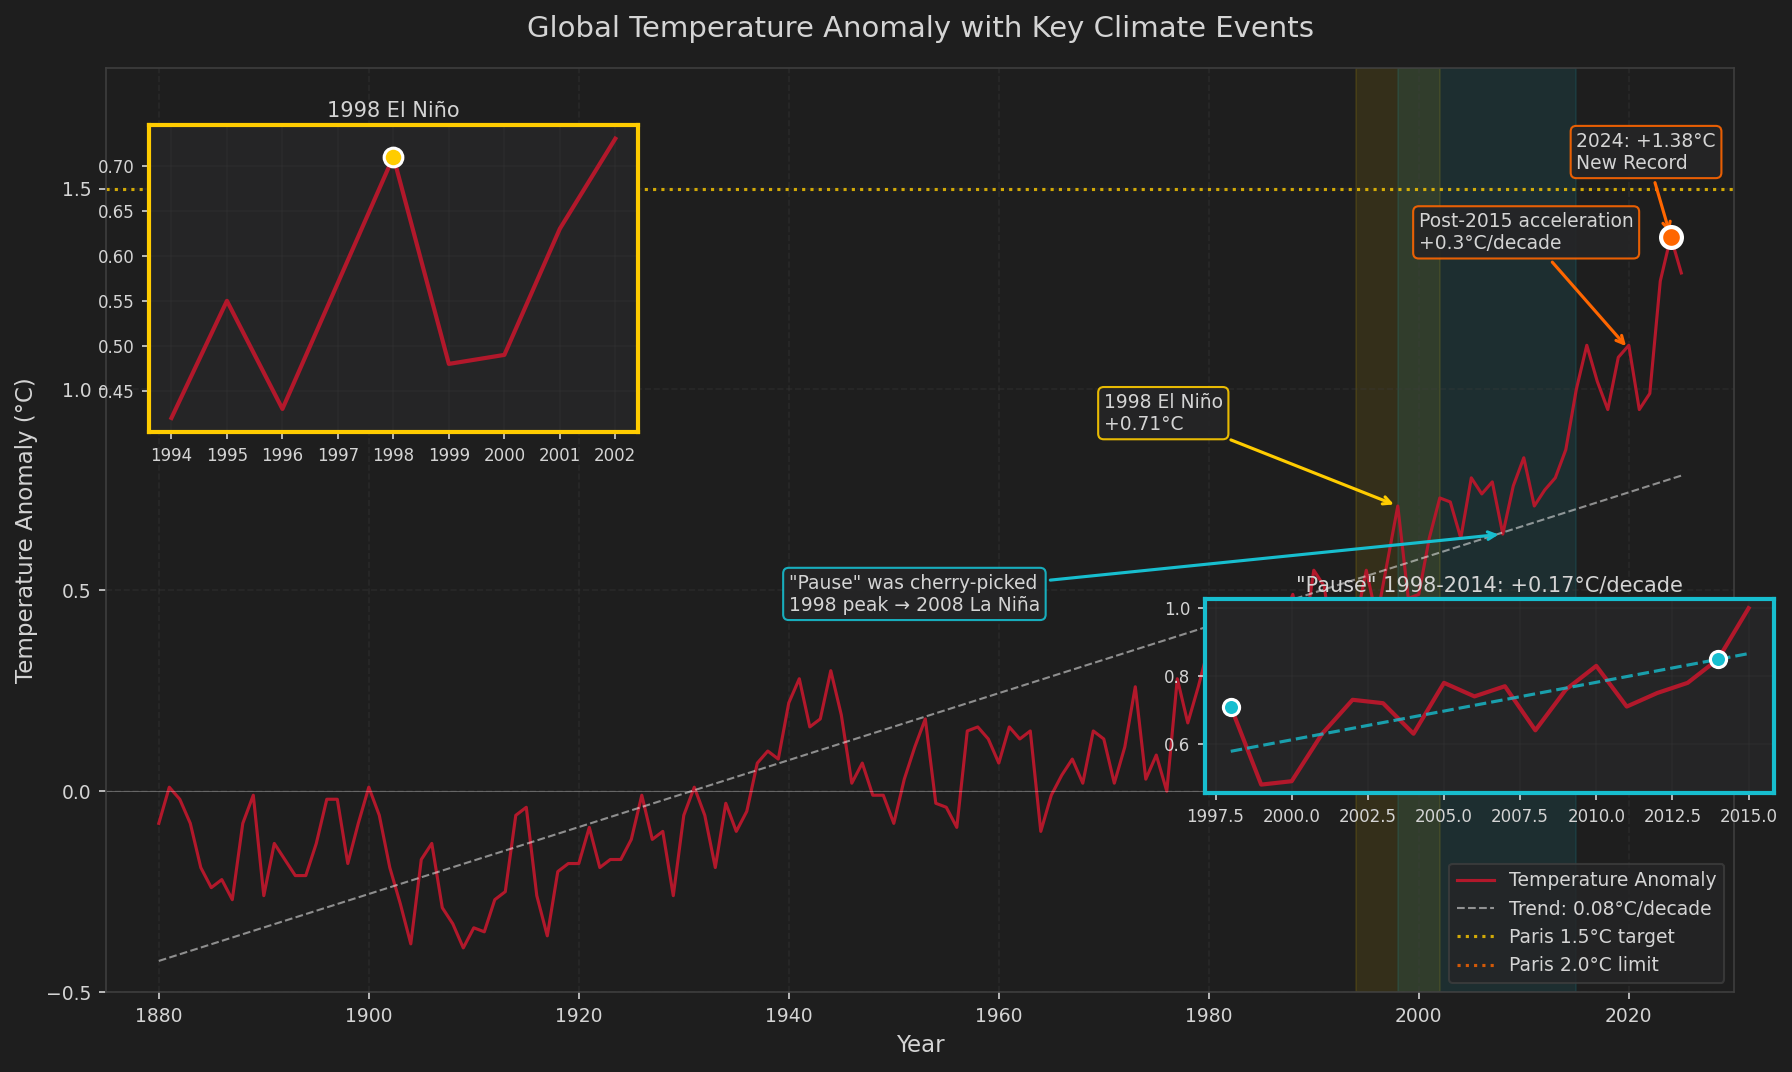
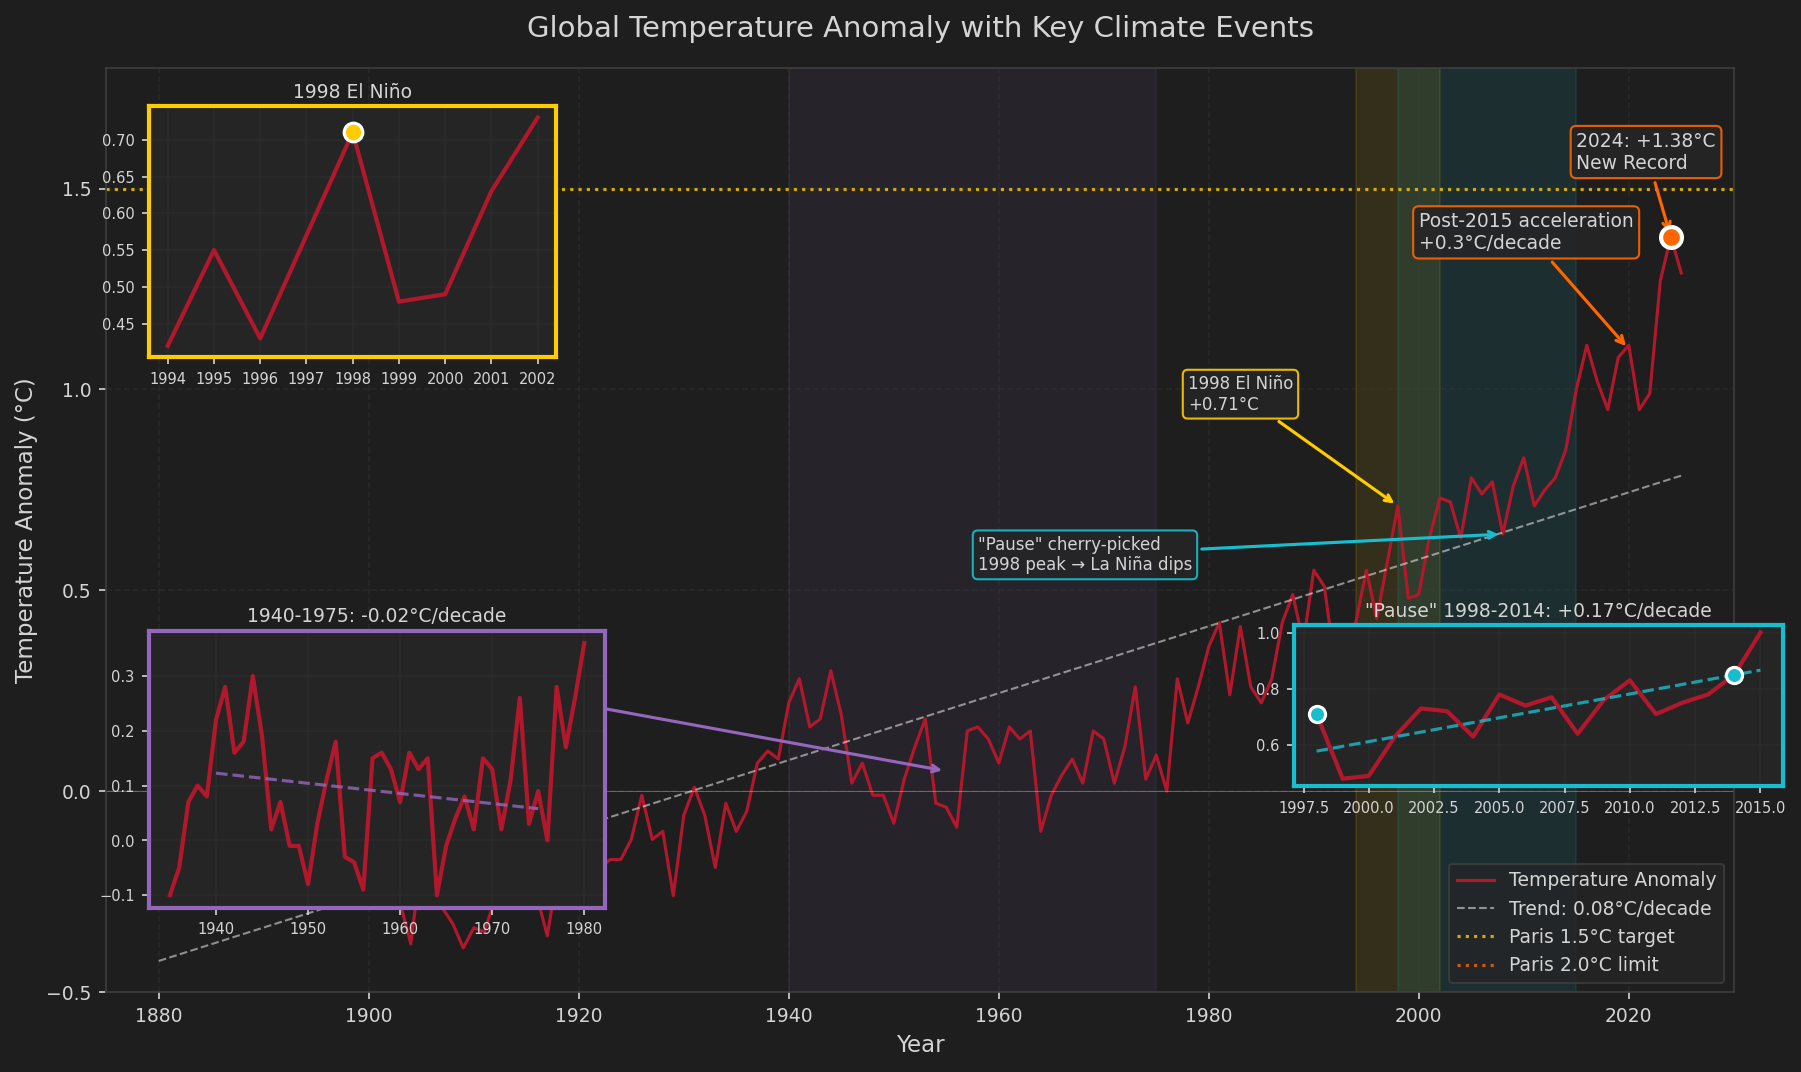
Update website with 1970s cooling myth content
- Updated temperature_annotated.png with 3 insets
- New "Addressing Climate Myths" section on index.html
  - 1970s cooling: aerosols + paper ratio 44:7
  - Pause: cherry-picked endpoints
- Updated chart description in gallery

diff --git a/global-temperature/index.html b/global-temperature/index.html
@@ -134,12 +134,16 @@
                 <figcaption>Global temperature anomaly from NASA GISTEMP, relative to 1850-1900 pre-industrial baseline. Yellow and orange lines show Paris Agreement targets.</figcaption>
             </figure>
 
-            <h3>The "Global Warming Pause" Myth</h3>
-            <p>In the late 2000s, climate skeptics claimed warming had "paused" since 1998. This argument cherry-picked the 1998 El Niño (an unusually warm year) as a starting point and La Niña years as endpoints. The annotated chart below shows that even during the "pause" period (1998-2014), warming continued at +0.17°C per decade.</p>
+            <h3>Addressing Climate Myths</h3>
+            <p>Two persistent climate myths are addressed in the annotated chart below:</p>
+            <ul>
+                <li><strong>"1970s Global Cooling":</strong> From 1940-1975, temperatures showed a slight cooling trend (-0.02°C/decade). This was real, but caused by aerosol pollution (sulfates) from industrialization masking greenhouse warming. Crucially, even then the scientific literature showed 44 papers predicting warming versus only 7 on cooling. There was never a scientific consensus for cooling - just a few sensationalized media articles.</li>
+                <li><strong>"Global Warming Pause":</strong> In the late 2000s, skeptics claimed warming had "paused" since 1998. This cherry-picked the 1998 El Niño (an unusually warm year) as a starting point. Even during 1998-2014, warming continued at +0.17°C per decade.</li>
+            </ul>
 
             <figure class="inline-chart">
                 <img src="charts/temperature_annotated.png" alt="Annotated Temperature Chart with Insets">
-                <figcaption>Annotated temperature chart with zoomed insets showing the 1998 El Niño and the "pause" period. The cyan trend line in the pause inset shows warming continued at +0.17°C/decade.</figcaption>
+                <figcaption>Annotated temperature chart with three zoomed insets: the 1940-1975 "cooling" period (purple), the 1998 El Niño (yellow), and the "pause" period (cyan). Each inset shows the actual trend line for that period.</figcaption>
             </figure>
 
             <h3>Observed Impacts</h3>

diff --git a/global-temperature/charts.html b/global-temperature/charts.html
@@ -67,8 +67,8 @@
             <div class="chart-card featured" id="annotated">
                 <img src="charts/temperature_annotated.png" alt="Annotated Temperature with Insets">
                 <div class="chart-info">
-                    <h3>Temperature Annotated - Key Climate Events</h3>
-                    <p>Zoomed insets for 1998 El Niño and the "pause" period. Annotations explain cherry-picking in denial arguments. The "pause" still showed +0.17°C/decade warming.</p>
+                    <h3>Temperature Annotated - Addressing Climate Myths</h3>
+                    <p>Three zoomed insets: 1940-1975 "cooling" (aerosols, papers 44:7 warming), 1998 El Niño spike, and the "pause" (+0.17°C/decade). Data-driven responses to common denial arguments.</p>
                     <span class="range">1880-2025 with insets</span>
                 </div>
             </div>
